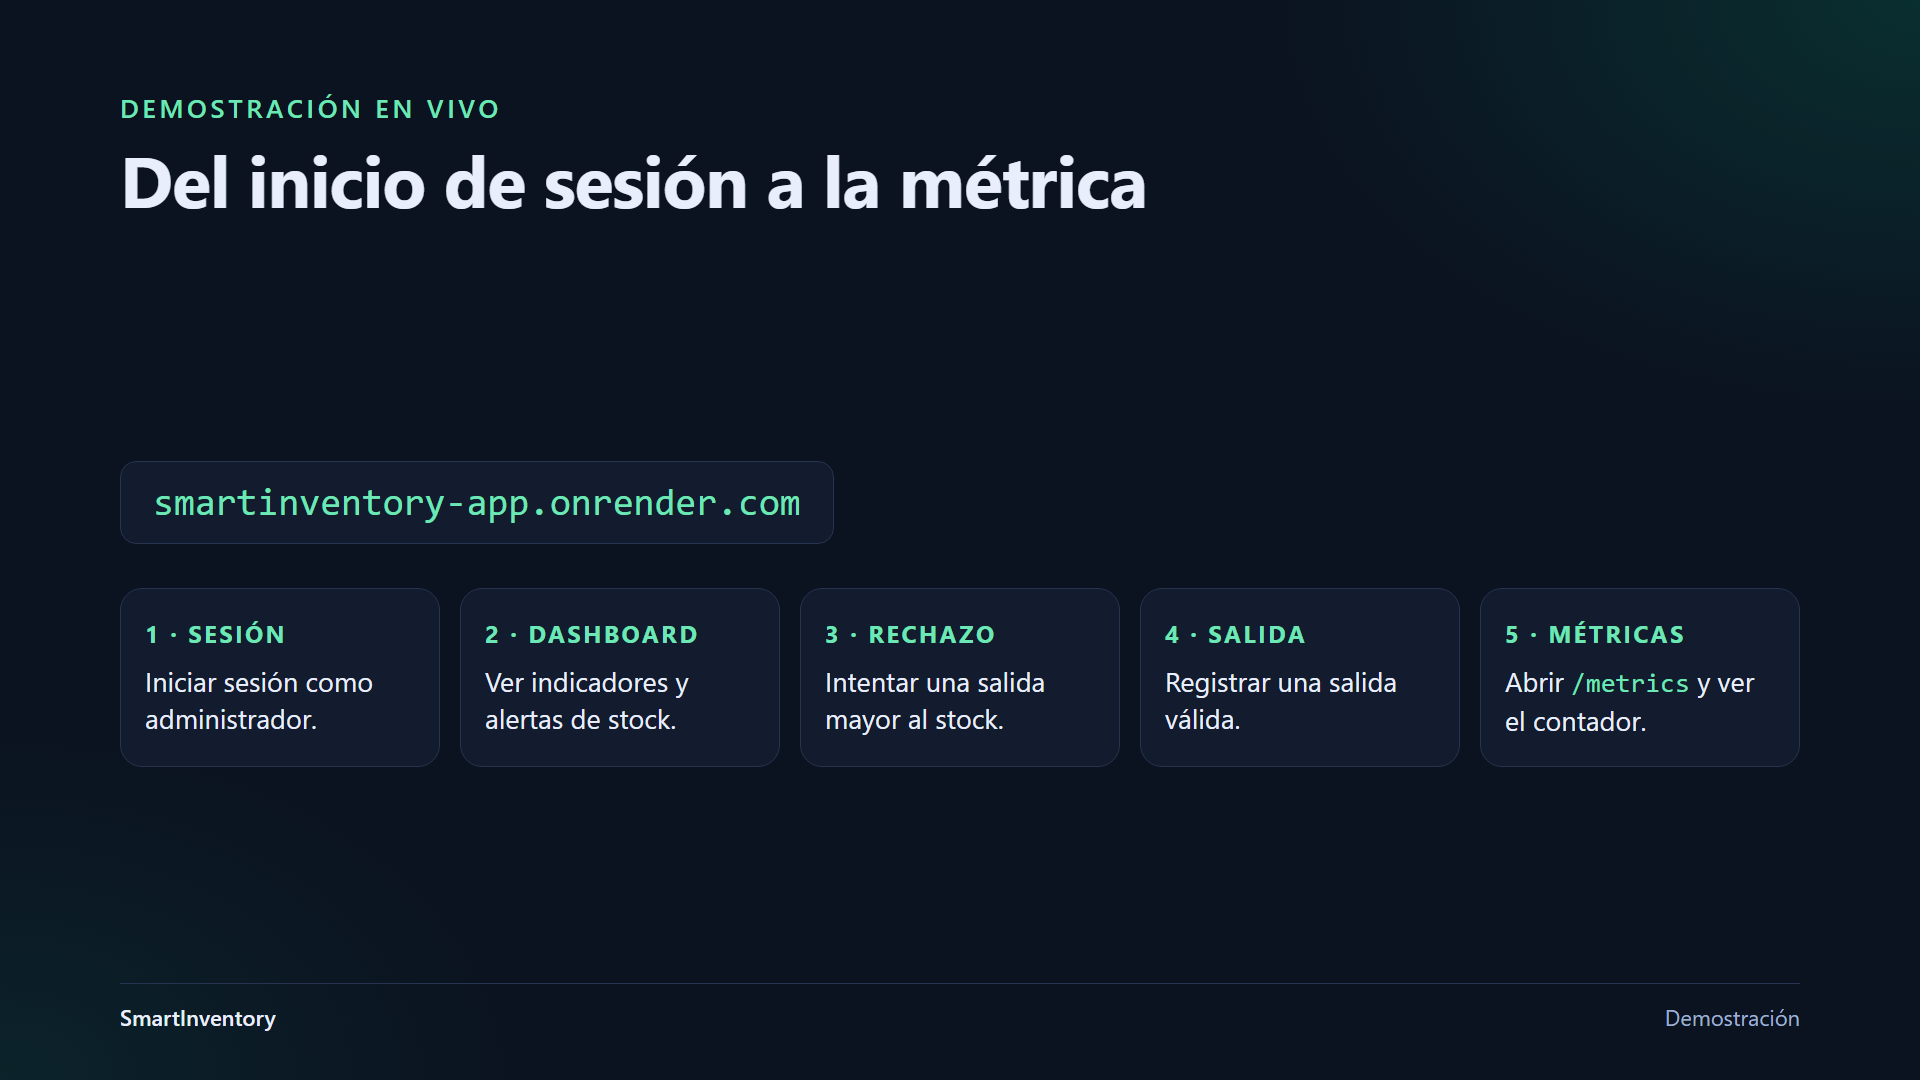
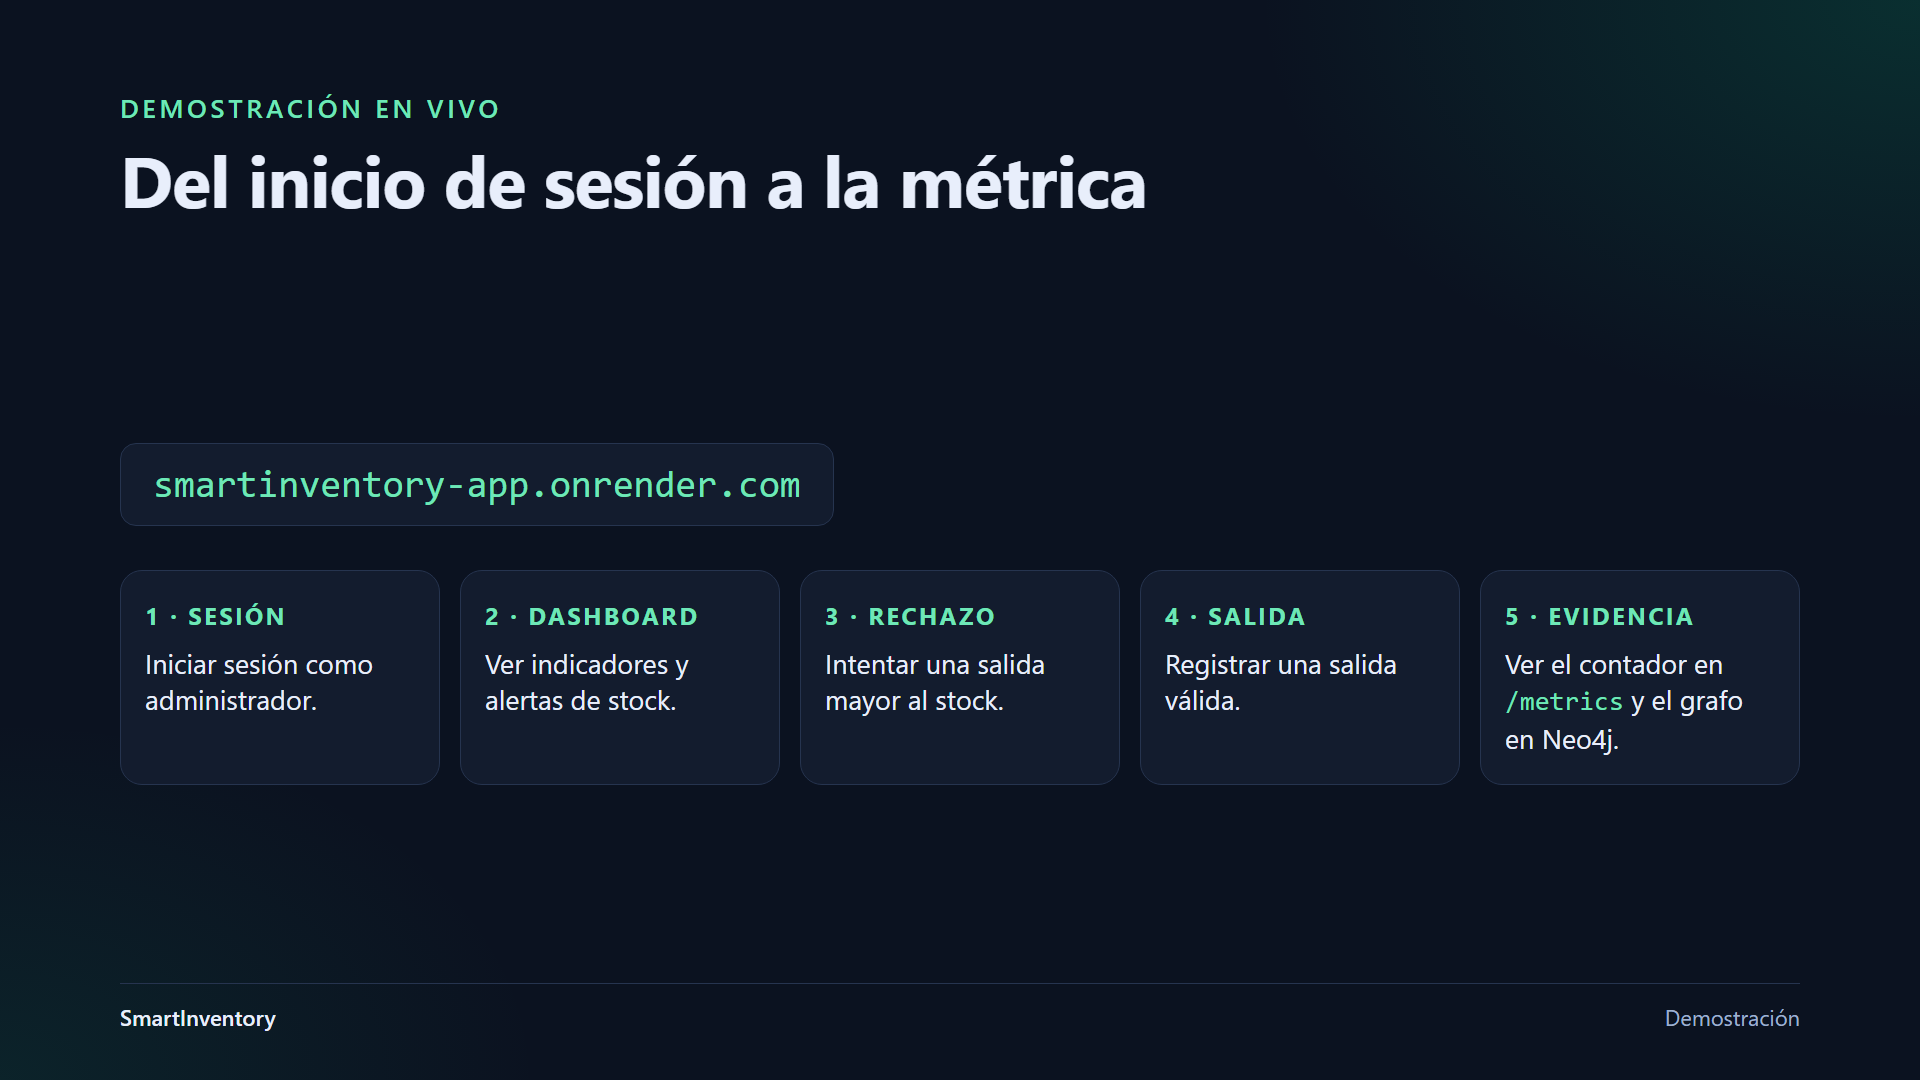
docs: exposición actualizada con los cuatro motores conectados en la nube
- Guion: paso nuevo para mostrar el grafo en Neo4j, pestañas reordenadas y
  sección de estado en producción con los cuidados para el día de la demo.
- Diapositivas: nombres de los servicios en la nube y paso de evidencia.

diff --git a/exposicion/slides.html b/exposicion/slides.html
@@ -248,17 +248,17 @@
   <div class="body">
     <div class="cards c4">
       <div class="card">
-        <h3>MongoDB</h3>
+        <h3>MongoDB Atlas</h3>
         <div class="kind">Documentos</div>
         <p>Catálogo de productos, usuarios y movimientos de inventario.</p>
       </div>
       <div class="card">
-        <h3>Redis</h3>
+        <h3>Redis Cloud</h3>
         <div class="kind">Clave-valor</div>
         <p>Caché del resumen del dashboard, con vencimiento de 60 segundos.</p>
       </div>
       <div class="card">
-        <h3>Neo4j</h3>
+        <h3>Neo4j AuraDB</h3>
         <div class="kind">Grafos</div>
         <p>Relaciones entre proveedores, productos y categorías.</p>
       </div>
@@ -423,7 +423,7 @@
       <div class="step"><div class="who">2 · Dashboard</div><p>Ver indicadores y alertas de stock.</p></div>
       <div class="step"><div class="who">3 · Rechazo</div><p>Intentar una salida mayor al stock.</p></div>
       <div class="step"><div class="who">4 · Salida</div><p>Registrar una salida válida.</p></div>
-      <div class="step"><div class="who">5 · Métricas</div><p>Abrir <code>/metrics</code> y ver el contador.</p></div>
+      <div class="step"><div class="who">5 · Evidencia</div><p>Ver el contador en <code>/metrics</code> y el grafo en Neo4j.</p></div>
     </div>
   </div>
   <div class="foot"><span><b>SmartInventory</b></span><span>Demostración</span></div>

diff --git a/exposicion/guion.md b/exposicion/guion.md
@@ -2,26 +2,27 @@
 
 Cada paso dice **qué mostrar** en pantalla y **qué decir** mientras se ve. El texto sigue el orden de lo que aparece en cada diapositiva.
 
-Duración aproximada: 8 minutos. Si tienes menos tiempo, omite los pasos 5 y 7.
+Duración aproximada: 9 minutos. Si tienes menos tiempo, omite los pasos 5 y 7.
 
 ---
 
 ## Antes de exponer
 
-### 1. Deja cuatro pestañas, en este orden
+### 1. Deja cinco pestañas, en este orden
 
 | Pestaña | Qué abrir | Atajo |
 |---|---|---|
 | 1 | `exposicion/slides.html` (doble clic sobre el archivo) | `Ctrl + 1` |
 | 2 | `https://smartinventory-app.onrender.com` | `Ctrl + 2` |
 | 3 | `https://smartinventory-api-29jb.onrender.com/metrics` | `Ctrl + 3` |
-| 4 | `https://github.com/Stevien04/SmartInventory/actions` | `Ctrl + 4` |
+| 4 | `https://console.neo4j.io` → menú **Query** | `Ctrl + 4` |
+| 5 | `https://github.com/Stevien04/SmartInventory/actions` | `Ctrl + 5` |
 
 Cierra todas las demás pestañas.
 
 ### 2. Pon el navegador en pantalla completa
 
-Pulsa `F11`. Desaparecen las pestañas y la barra de direcciones. Los atajos `Ctrl + 1` a `Ctrl + 4` siguen funcionando.
+Pulsa `F11`. Desaparecen las pestañas y la barra de direcciones. Los atajos `Ctrl + 1` a `Ctrl + 5` siguen funcionando.
 
 ### 3. Aprende a mover las diapositivas
 
@@ -34,6 +35,8 @@ Se ve una sola diapositiva a la vez:
 ### 4. Despierta la aplicación
 
 Abre las pestañas 2 y 3 unos dos minutos antes. El servidor gratuito de Render se duerme y la primera carga tarda cerca de un minuto.
+
+En la pestaña 4, inicia sesión en la consola de Neo4j y comprueba que la instancia `Instance01` diga «Running». Las instancias gratuitas se pausan tras unos días sin uso: si aparece pausada, pulsa «···» → «Resume Instance» y espera un minuto.
 
 ### 5. Prepara los datos de la demo
 
@@ -66,7 +69,7 @@ Entra a la aplicación y anota, en **Productos**, un producto con poco stock y s
 **MOSTRAR:** pulsa `→`. Diapositiva 3, con cuatro tarjetas, una por motor.
 
 **DECIR:**
-> Estos son los cuatro motores, de izquierda a derecha. MongoDB es la base documental: guarda el catálogo de productos, los usuarios y los movimientos. Redis es un almacén clave-valor y se usa como caché del resumen del dashboard. Neo4j es una base de grafos, para las relaciones entre proveedores, productos y categorías. Y Prometheus guarda series de tiempo: las métricas del sistema.
+> Estos son los cuatro motores, de izquierda a derecha. MongoDB Atlas es la base documental: guarda el catálogo de productos, los usuarios y los movimientos. Redis Cloud es un almacén clave-valor y se usa como caché del resumen del dashboard. Neo4j AuraDB es una base de grafos, para las relaciones entre proveedores, productos y categorías. Y Prometheus guarda series de tiempo: las métricas del sistema.
 
 ---
 
@@ -152,16 +155,33 @@ Entra a la aplicación y anota, en **Productos**, un producto con poco stock y s
 
 ---
 
-### Paso 12 — CI/CD · 50 s
+### Paso 12 — Demo del grafo · 40 s
 
-**MOSTRAR:** pulsa `Ctrl + 1` y avanza con `→` hasta la diapositiva 10. Después pulsa `Ctrl + 4` para mostrar GitHub Actions y abre la ejecución más reciente.
+**MOSTRAR:** pulsa `Ctrl + 4` para ir a la consola de Neo4j, en **Query**.
+
+1. Pega esta consulta y pulsa **Run**:
+
+```
+MATCH (prov:Proveedor)-[:SUMINISTRA]->(p:Producto)-[:PERTENECE_A]->(c:Categoria) RETURN prov, p, c
+```
+
+2. Señala los nodos: proveedores, productos y categorías, unidos por flechas.
+
+**DECIR:**
+> Este es el grafo de suministro en Neo4j AuraDB. Cada producto está unido a su proveedor por la relación «suministra» y a su categoría por «pertenece a». El backend lo mantiene sincronizado con el catálogo de MongoDB. Aquí se puede preguntar, por ejemplo, qué productos dependen de un mismo proveedor.
+
+---
+
+### Paso 13 — CI/CD · 50 s
+
+**MOSTRAR:** pulsa `Ctrl + 1` y avanza con `→` hasta la diapositiva 10. Después pulsa `Ctrl + 5` para mostrar GitHub Actions y abre la ejecución más reciente.
 
 **DECIR:**
 > El despliegue está automatizado con GitHub Actions. Cada push a la rama main ejecuta las pruebas unitarias del backend, que verifican el cálculo de stock y los niveles de alerta, y compila el frontend. Solo si todo pasa, se despliegan la API y el frontend en Render. Aquí se ven las ejecuciones en el repositorio público.
 
 ---
 
-### Paso 13 — Conclusiones · 30 s
+### Paso 14 — Conclusiones · 30 s
 
 **MOSTRAR:** pulsa `Ctrl + 1` y avanza con `→` hasta la diapositiva 11.
 
@@ -185,30 +205,29 @@ Entra a la aplicación y anota, en **Productos**, un producto con poco stock y s
 | 9 | 1 | Diapositiva 9: entrada a la demo | 0:10 |
 | 10 | 2 | App: sesión, rechazo y salida válida | 2:00 |
 | 11 | 3 | `/metrics`: contador de movimientos | 0:30 |
-| 12 | 1 y 4 | Diapositiva 10 y GitHub Actions | 0:50 |
-| 13 | 1 | Diapositiva 11: conclusiones | 0:30 |
+| 12 | 4 | Neo4j: grafo de suministro | 0:40 |
+| 13 | 1 y 5 | Diapositiva 10 y GitHub Actions | 0:50 |
+| 14 | 1 | Diapositiva 11: conclusiones | 0:30 |
 
 ---
 
-## Lo que debes saber antes de exponer
+## Estado en producción
 
-Hoy, en producción, **solo MongoDB y Prometheus están realmente conectados**. La comprobación de estado de la API (`/api/health`) responde:
+Los cuatro motores están conectados en la nube. La comprobación de estado de la API (`/api/health`) responde:
 
-| Motor | Estado en producción | Qué significa |
+| Motor | Estado | Servicio |
 |---|---|---|
-| MongoDB | `CONNECTED` | Los datos se guardan de verdad en MongoDB Atlas |
-| Prometheus | `ACTIVE (/metrics)` | Las métricas se exponen y se pueden consultar |
-| Redis | `IN_MEMORY_FALLBACK` | No hay un servidor Redis conectado; la caché vive en la memoria del backend |
-| Neo4j | `STANDBY/LOCAL` | No hay una base Neo4j conectada; la sincronización del grafo no se ejecuta |
+| MongoDB | `CONNECTED` | MongoDB Atlas |
+| Redis | `CONNECTED` | Redis Cloud, base `smartinventory-cache` (plan gratuito) |
+| Neo4j | `CONNECTED` | Neo4j AuraDB, instancia `Instance01` (plan gratuito) |
+| Prometheus | `ACTIVE (/metrics)` | Métricas expuestas por el backend |
 
-Por eso el guion describe Redis y Neo4j por lo que hace el código, sin afirmar que haya un Redis Cloud o un Neo4j AuraDB en producción, y no incluye mostrar el navegador de Neo4j.
+Si quieres mostrar la evidencia, abre `https://smartinventory-api-29jb.onrender.com/api/health` en una pestaña.
 
-Tienes dos caminos:
+Dos cuidados para el día de la exposición:
 
-1. **Conectarlos antes de exponer.** Crea una base gratuita en Redis Cloud y otra en Neo4j AuraDB, y agrega en Render las variables `REDIS_URL`, `NEO4J_URI`, `NEO4J_USERNAME` y `NEO4J_PASSWORD`. Cuando `/api/health` muestre `CONNECTED` en los cuatro, puedes decir que todo corre en la nube.
-2. **Exponer tal como está y decirlo con claridad.** Si preguntan, la respuesta honesta está abajo.
-
-Ten en cuenta también que el indicador de origen del dashboard dice «Redis In-Memory Cache» aunque la caché esté en la memoria del backend. No lo presentes como prueba de que hay un Redis conectado.
+1. **Neo4j se pausa solo.** Las instancias gratuitas de AuraDB se pausan tras unos días sin uso y se borran tras 30 días de inactividad. Entra a la consola ese día y reanúdala si hace falta. Después reinicia la API en Render (**Manual Deploy → Deploy latest commit**): el backend solo conecta con Neo4j al arrancar.
+2. **Comprueba el estado antes de empezar.** Si `/api/health` no muestra `CONNECTED` en Redis o en Neo4j, no afirmes que están en la nube: el backend sigue funcionando con una caché en memoria y sin grafo, y eso es lo que debes decir.
 
 ---
 
@@ -221,7 +240,7 @@ Ten en cuenta también que el indicador de origen del dashboard dice «Redis In-
 > El backend sigue funcionando: usa una caché en memoria como respaldo y, si tampoco hay dato, consulta MongoDB. La caché acelera, pero no es la fuente de verdad.
 
 **¿Redis y Neo4j están desplegados en la nube?**
-> La integración está implementada en el backend. En el despliegue actual, la caché usa la memoria del servidor como respaldo y el grafo no está conectado; MongoDB y las métricas sí están activos. Se puede comprobar en la ruta de estado de la API.
+> Sí. La caché está en Redis Cloud y el grafo en Neo4j AuraDB, ambos en su plan gratuito. Se puede comprobar en la ruta de estado de la API, que muestra los cuatro motores conectados.
 
 **¿Cómo se evita el stock negativo?**
 > La validación ocurre en el backend, dentro de la misma transacción que actualiza el stock y guarda el movimiento. Si la salida supera el stock, la transacción se cancela y no se guarda nada.
